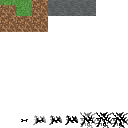
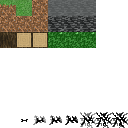
added basic world generation

Changed region(s): [[0.0, 0.125, 0.75, 0.375]]

diff --git a/src/main.cpp b/src/main.cpp
@@ -1,11 +1,13 @@
 #include <glad/glad.h>
+#include <cstdlib>
+#include <ctime>
 
 #include "gfx/camera.hpp"
 #include "gfx/iv_buffer.hpp"
 #include "gfx/shaders.hpp"
 #include "gfx/textures.hpp"
 #include "minecraft/chunk.hpp"
-#include "minecraft/simplex1234.hpp"
+#include "minecraft/worldgen.hpp"
 #include "models/cube.hpp"
 #include "window/window.hpp"
 
@@ -31,8 +33,139 @@ void CleanupPointers()
     delete cam, atlas, fontHandler, mainWindow;
 }
 
-const int X_CHUNKS = 12;
-const int Z_CHUNKS = 12;
+void SeedProbability()
+{
+    srand(time(0));
+}
+bool CheckProbability(float probability)
+{
+    return ((float)(rand() % 100000) / 100000.0) < probability;
+}
+
+int ChunkDim[2] = {12, 12};
+
+int octaves = 8;
+float frequency = 0.01;
+float lacunarity = 0.01;
+float bias = -0.24f;
+float upperScale = 0.5f;
+float lowerScale = 0.25f;
+int noiseBase = 30;
+float treeProb = 0.0025f;
+
+void FillTreeLayer(minecraft::Chunk& chunk, int layer, int x, int y, int z);
+void genChunks()
+{
+    chunks = std::vector<minecraft::Chunk>{};
+    for (int xi = 0; xi < ChunkDim[0]; xi++)
+    {
+        for (int zi = 0; zi < ChunkDim[1]; zi++)
+        {
+            minecraft::Chunk temp = minecraft::Chunk(glm::vec3(xi * 16, 0, zi * 16));
+            for (int x = 0; x < 16; x++)
+            {
+                int X = x + 16 * xi;
+                for (int z = 0; z < 16; z++)
+                {
+                    int Z = z + 16 * zi;
+                    int h = noiseBase + (int)(20.0 * minecraft::WorldGen::FBM(glm::vec2(X, Z), frequency, lacunarity, octaves, bias, upperScale, lowerScale));
+                    for (int y = h; y >= 0; y--)
+                    {
+                        float antiTreeProb = 1.0f - treeProb;
+                        float bedrockNoise = minecraft::WorldGen::FBM(glm::vec3(X, y, Z), frequency, lacunarity, octaves, 0.0, 1.0, 1.0);
+                        float treeNoise = minecraft::WorldGen::FBM(glm::vec3(X, y, Z), 0.25, lacunarity / 20, 2, 0.0, 1.0, 1.0);
+                        BlockType type = BlockType::Stone;
+                        if (y <= 1 + bedrockNoise * 1)
+                        {
+                            type = BlockType::Bedrock;
+                        } 
+                        else if (y < h - 6) type = BlockType::Stone;
+                        else if (y == h)
+                        {
+                            if (CheckProbability(treeProb / 10.0))
+                            {
+                                int max = h + 7 + treeNoise;
+                                for (int y2 = h + 1; y2 <= max; y2++)
+                                {
+                                    FillTreeLayer(temp, int(max - y2), x, y2, z);
+                                }
+                                type = BlockType::Dirt;
+                            }
+                            else
+                            {
+                                type = BlockType::Grass;
+                            }
+                        }
+                        else if (y >= h - 6) type = BlockType::Dirt;
+                        temp.SetBlockAt(type, x, y, z);
+                    }
+                }
+            }
+            temp.CreateInstanceData();
+            chunks.push_back(temp);
+        }
+    }
+}
+
+void FillTreeLayer2n3(minecraft::Chunk& chunk, int x, int y, int z);
+void FillTreeLayer(minecraft::Chunk& chunk, int layer, int x, int y, int z)
+{
+    switch(layer)
+    {
+    case 0:
+        chunk.SetBlockAt(BlockType::Leaves, x, y, z);
+        if (z + 1 < 16) chunk.SetBlockAt(BlockType::Leaves, x, y, z + 1);
+        if (z - 1 >= 0) chunk.SetBlockAt(BlockType::Leaves, x, y, z - 1);
+        if (x + 1 < 16) chunk.SetBlockAt(BlockType::Leaves, x + 1, y, z);
+        if (x - 1 >= 0) chunk.SetBlockAt(BlockType::Leaves, x - 1, y, z);
+        break;
+    case 1:
+        chunk.SetBlockAt(BlockType::Log, x, y, z);
+        if (z + 1 < 16) chunk.SetBlockAt(BlockType::Leaves, x, y, z + 1);
+        if (z - 1 >= 0) chunk.SetBlockAt(BlockType::Leaves, x, y, z - 1);
+        if (x + 1 < 16) chunk.SetBlockAt(BlockType::Leaves, x + 1, y, z);
+        if (x - 1 >= 0) chunk.SetBlockAt(BlockType::Leaves, x - 1, y, z);
+        // 50%
+        if (CheckProbability(0.5) && x + 1 < 16 && z + 1 < 16) chunk.SetBlockAt(BlockType::Leaves, x + 1, y, z + 1);
+        if (CheckProbability(0.5) && x - 1 > 0 && z - 1 > 0) chunk.SetBlockAt(BlockType::Leaves, x - 1, y, z - 1);
+        if (CheckProbability(0.5) && x + 1 < 16 && z - 1 > 0) chunk.SetBlockAt(BlockType::Leaves, x + 1, y, z - 1);
+        if (CheckProbability(0.5) && x - 1 > 0 && z + 1 < 16) chunk.SetBlockAt(BlockType::Leaves, x - 1, y, z + 1);
+        break;
+    case 2:
+        FillTreeLayer2n3(chunk, x, y, z);
+        break;
+    case 3:
+        FillTreeLayer2n3(chunk, x, y, z);
+        break;
+    default:
+        chunk.SetBlockAt(BlockType::Log, x, y, z);
+    }
+}
+
+void FillTreeLayer2n3(minecraft::Chunk& chunk, int x, int y, int z)
+{
+        chunk.SetBlockAt(BlockType::Log, x, y, z);
+        for (int xi = x - 2; xi <= x + 2; xi++)
+        {
+            for (int zi = z - 1; zi <= z + 1; zi++)
+            {
+                if (xi < 16 && xi > 0 && zi > 0 && zi < 16) chunk.SetBlockAt(BlockType::Leaves, xi, y, zi);
+            }
+        }
+        for (int xi = x - 1; xi <= x + 1; xi++)
+        {
+            for (int zi = z - 2; zi <= z + 2; zi++)
+            {
+                if (xi < 16 && xi > 0 && zi > 0 && zi < 16) chunk.SetBlockAt(BlockType::Leaves, xi, y, zi);
+            }
+        }
+        // 50%
+        if (CheckProbability(0.5) && x + 2 < 16 && z + 2 < 16) chunk.SetBlockAt(BlockType::Leaves, x + 2, y, z + 2);
+        if (CheckProbability(0.5) && x - 2 > 0 && z - 2 > 0) chunk.SetBlockAt(BlockType::Leaves, x - 2, y, z - 2);
+        if (CheckProbability(0.5) && x + 2 < 16 && z - 2 > 0) chunk.SetBlockAt(BlockType::Leaves, x + 2, y, z - 2);
+        if (CheckProbability(0.5) && x - 2 > 0 && z + 2 < 16) chunk.SetBlockAt(BlockType::Leaves, x - 2, y, z + 2);
+}
+
 void loadAssets(GLFWwindow* window)
 {
     // Camera
@@ -53,38 +186,7 @@ void loadAssets(GLFWwindow* window)
     });
 
     // Chunk
-    chunks = std::vector<minecraft::Chunk>{};
-    for (int xi = 0; xi < X_CHUNKS; xi++)
-    {
-        for (int zi = 0; zi < Z_CHUNKS; zi++)
-        {
-            minecraft::Chunk temp = minecraft::Chunk(glm::vec3(xi * 16, 0, zi * 16));
-            for (int x = 0; x < 16; x++)
-            {
-                int X = x + 16 * xi;
-                for (int z = 0; z < 16; z++)
-                {
-                    int Z = z + 16 * zi;
-                    float n = SimplexNoise1234::noise(
-                        static_cast<float>(X) * 0.01,
-                        static_cast<float>(Z) * 0.01);
-                    float n2 = SimplexNoise1234::noise(
-                        static_cast<float>(X) * 0.005 + 567.0,
-                        static_cast<float>(Z) * 0.005 + 880.0);
-                    int h = 30 + static_cast<int>(20 * n2 * n);
-                    for (int y = h; y >= 0; y--)
-                    {
-                        BlockType type = BlockType::Stone;
-                        if (y == h && SimplexNoise1234::noise(static_cast<float>(X) * 0.125 + 50.0, static_cast<float>(Z) * 0.125 + 50.0) >= -0.25) type = BlockType::Grass;
-                        else if (y >= h - 4) type = BlockType::Dirt;
-                        temp.SetBlockAt(type, x, y, z);
-                    }
-                }
-            }
-            temp.CreateInstanceData();
-            chunks.push_back(temp);
-        }
-    }
+    genChunks();
 }
 
 void UI_BeginFrame()
@@ -209,8 +311,8 @@ int main()
     mainWindow->AddRenderAction([&](GLFWwindow* window) {
         glEnable(GL_DEPTH_TEST);
         glDepthFunc(GL_LEQUAL);
+
         glDisable(GL_MULTISAMPLE);
-        glEnable(GL_CULL_FACE);
 
         for (int i = 0; i < chunks.size(); i++)
         {
@@ -250,6 +352,23 @@ int main()
         ImGui::Separator();
         ImGui::ColorEdit3("Fog Color", (float*)&fogColor);
         ImGui::SliderFloat("Fog Density", &fogDensity, 0.0, 0.125);
+        ImGui::End();
+
+        ImGui::Begin("World Gen");
+        ImGui::Text("Noise Properties");
+        ImGui::SliderInt("Octaves", &octaves, 1, 20);
+        ImGui::SliderFloat("Frequency", &frequency, 0.0, 0.005, "%.6f");
+        ImGui::SliderFloat("Lacunarity", &lacunarity, 0.0, 0.05);
+        ImGui::SliderFloat("Bias", &bias, -1.0, 0.0);
+        ImGui::SliderFloat("Upper Scale", &upperScale, 0.0, 2.0);
+        ImGui::SliderFloat("Lower Scale", &lowerScale, 0.0, 2.0);
+        ImGui::Separator();
+        ImGui::Text("World Properties");
+        ImGui::SliderInt("Base Height", &noiseBase, 15, 64);
+        ImGui::SliderInt2("Chunk Amount", &ChunkDim[0], 1, 32);
+        ImGui::SliderFloat("Tree Probability", &treeProb, 0.0, 0.1);
+        ImGui::Separator();
+        if (ImGui::Button("Regenerate World")) genChunks();
         ImGui::End();
 
         fontHandler->pop_all();

diff --git a/src/minecraft/worldgen.cpp b/src/minecraft/worldgen.cpp
@@ -1,1 +1,51 @@
 #include "worldgen.hpp"
+#include "simplex1234.hpp"
+
+namespace minecraft
+{
+    float min(float a, float b)
+    {
+        return (a > b) ? b : a;
+    }
+
+    float max(float a, float b)
+    {
+        return (a > b) ? a : b;
+    }
+
+    float WorldGen::FBM(glm::vec2 coords, float freq, float lac, int oct, float bias, float upperScale, float lowerScale)
+    {
+        float t = 0.0f;
+        float amp = 1.0f;
+        float ampSum = 0.0f;
+        for (int k = 0; k < oct; k++)
+        {
+            glm::vec2 C = coords * freq;
+            t += min(SimplexNoise1234::noise(C.x, C.y), 1.0) * amp;
+            ampSum += amp;
+            amp *= 0.5;
+            freq = lac;
+        }
+        float out = t / ampSum;
+        out = ((out > bias) ? upperScale : lowerScale) * (out - bias) + bias;
+        return out;
+    }
+
+    float WorldGen::FBM(glm::vec3 coords, float freq, float lac, int oct, float bias, float upperScale, float lowerScale)
+    {
+        float t = 0.0f;
+        float amp = 1.0f;
+        float ampSum = 0.0f;
+        for (int k = 0; k < oct; k++)
+        {
+            glm::vec3 C = coords * freq;
+            t += min(SimplexNoise1234::noise(C.x, C.y, C.z), 1.0) * amp;
+            ampSum += amp;
+            amp *= 0.5;
+            freq = lac;
+        }
+        float out = t / ampSum;
+        out = ((out > bias) ? upperScale : lowerScale) * (out - bias) + bias;
+        return out;
+    }
+}

diff --git a/src/minecraft/chunk.cpp b/src/minecraft/chunk.cpp
@@ -7,12 +7,18 @@ namespace minecraft
     {
         switch (type)
         {
-        case BlockType::Dirt:
-            return glm::vec2(0, 1);
         case BlockType::Grass:
             return glm::vec2(0, 0);
         case BlockType::Stone:
             return glm::vec2(3, 0);
+        case BlockType::Dirt:
+            return glm::vec2(0, 1);
+        case BlockType::Bedrock:
+            return glm::vec2(3, 1);
+        case BlockType::Log:
+            return glm::vec2(0, 2);
+        case BlockType::Leaves:
+            return glm::vec2(3, 2);
         case BlockType::Air:
             return glm::vec2(-1, -1);
         }

diff --git a/src/minecraft/worldgen.hpp b/src/minecraft/worldgen.hpp
@@ -5,5 +5,8 @@ namespace minecraft
 {
     class WorldGen
     {
+    public:
+        static float FBM(glm::vec2 coords, float freq, float lac, int oct, float bias, float upperScale, float lowerScale);
+        static float FBM(glm::vec3 coords, float freq, float lac, int oct, float bias, float upperScale, float lowerScale);
     };
 }

diff --git a/src/minecraft/chunk.hpp b/src/minecraft/chunk.hpp
@@ -9,7 +9,7 @@ namespace minecraft
 {
     enum class BlockType
     {
-        Air, Grass, Stone, Dirt
+        Air, Grass, Stone, Dirt, Bedrock, Log, Leaves
     };
 
     struct BlockInstanceData

diff --git a/src/gfx/gl_utils.cpp b/src/gfx/gl_utils.cpp
@@ -34,7 +34,7 @@ namespace gfx
         }
 
         glfwMakeContextCurrent(window);
-        glfwSwapInterval(1);
+        glfwSwapInterval(0);
 
         if (!InitializeGL())
         {
